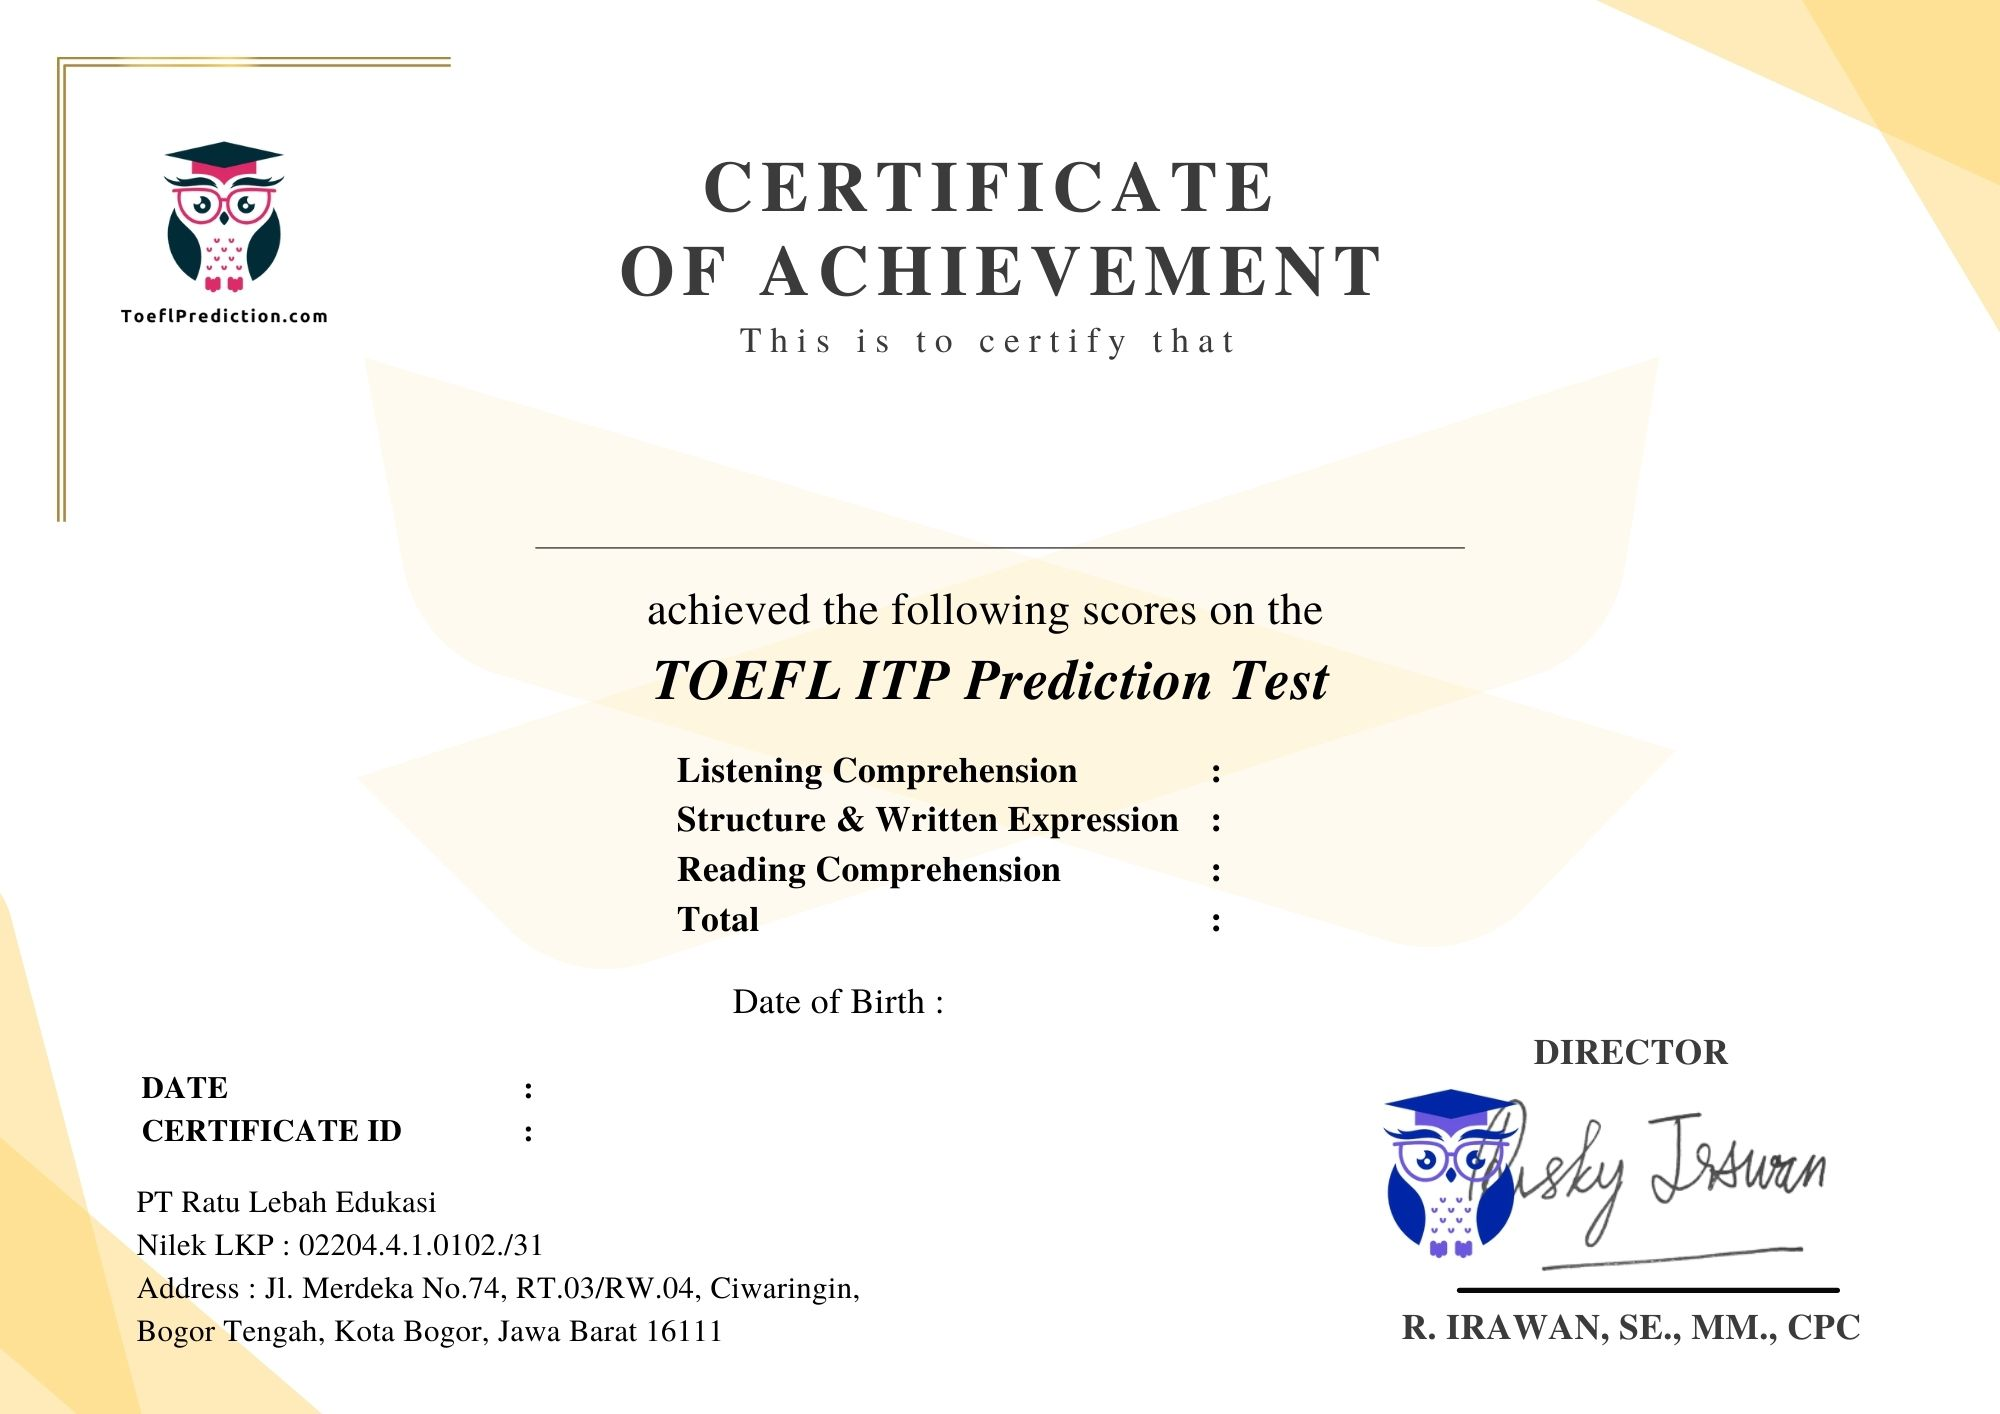
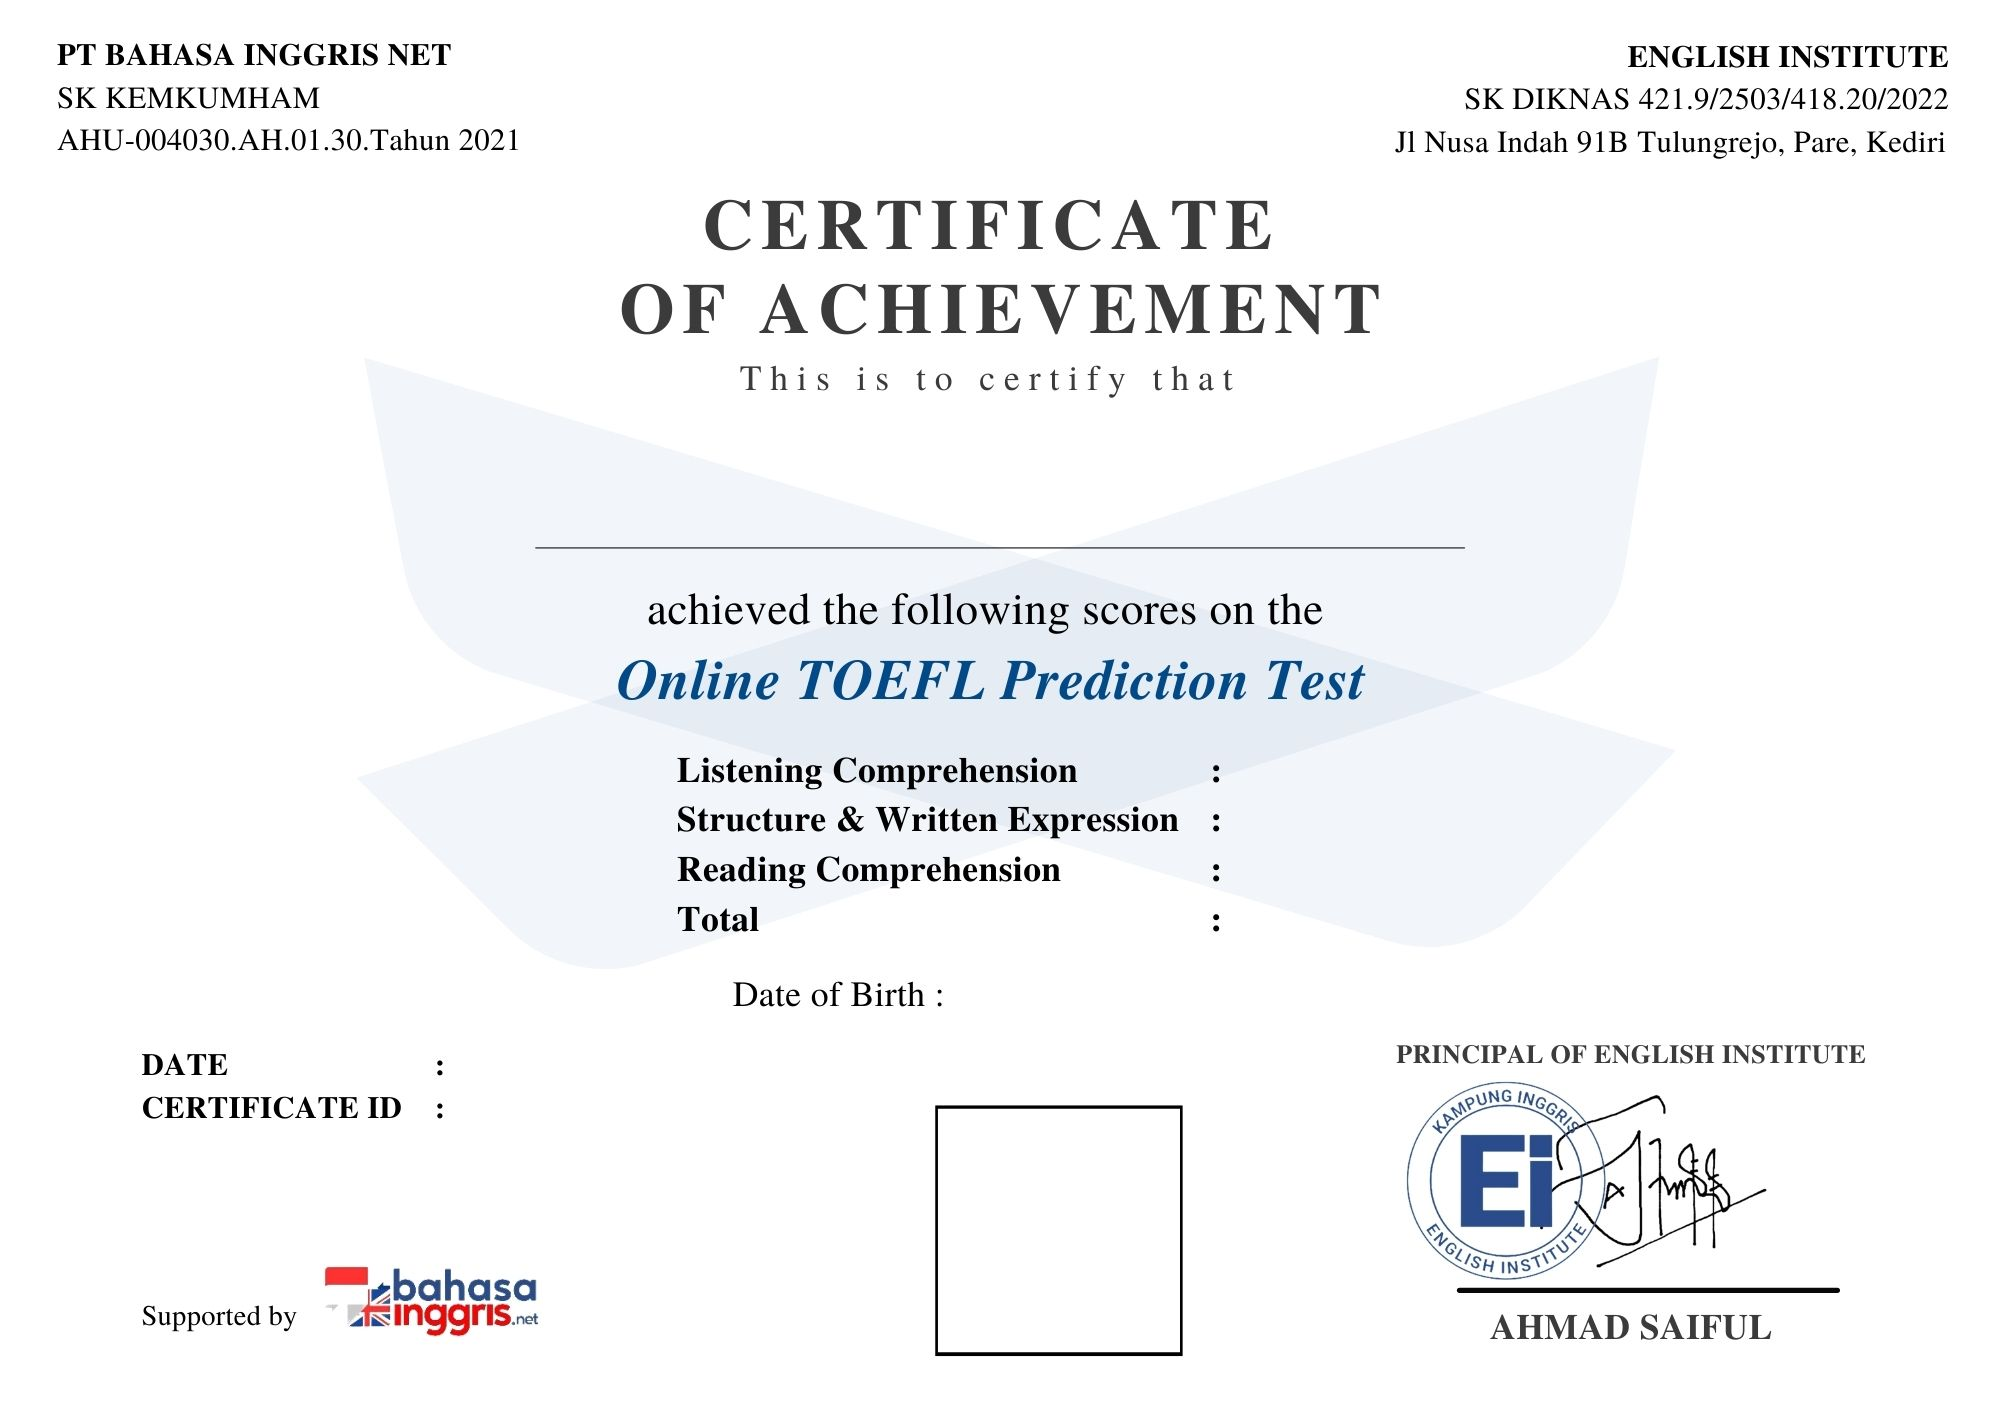
edit training v1

diff --git a/application/views/pages/soal-toefl-training-v1.php b/application/views/pages/soal-toefl-training-v1.php
@@ -213,13 +213,32 @@
                                                 $item = '<img src="'.$link['value'].'/assets/myimg/'.$data['data'].'?t='.time().'" onerror="this.onerror=null; this.src='.$link['value'].'/assets/tabler-icons-1.39.1/icons/x.svg" class="card-img-top" width=100%>';
                                             ?>
                                             <?php endif;?>
-                                            <div class="shadow card mb-3 soal">
+                                            <!-- <div class="shadow card mb-3 soal">
                                                 <div class="card-body" id="soal-<?= $i?>">
                                                     
                                                     <?= $item?>
                                 
                                                 </div>
-                                            </div>
+                                            </div> -->
+                                            <?php if($data['tampil'] == "Ya") :?>
+                                                <div class="shadow card mb-3 soal">
+                                                    <div class="card-body" id="soal-<?= $i?>">
+                                                        <?php if($data['id_text'] != 0) :?>
+                                                            <?php $text = textReading($data['id_text']) ;?>
+                                                            <div class="row">
+                                                                <div class="col-sm-12 col-lg-8">
+                                                                    <?= $text['data'];?>
+                                                                </div>
+                                                                <div class="col-sm-12 col-lg-4">
+                                                                    <?= $item?>
+                                                                </div>
+                                                            </div>
+                                                        <?php else :?>
+                                                            <?= $item;?>
+                                                        <?php endif;?>
+                                                    </div>
+                                                </div>
+                                            <?php endif;?>
                                         <?php endforeach;?>
 
                                         <div class="mb-3">

diff --git a/application/views/pages/sertifikat-file.php b/application/views/pages/sertifikat-file.php
@@ -46,8 +46,8 @@
         .qrcode{
             /* width: 210px; */
 			position: absolute;
-            right: 77px;
-			top: 69px;
+            right: 455px;
+			bottom: 30px;
             font-size: 35px;
             word-spacing: 3px;
         }
@@ -56,8 +56,8 @@
             /* background-color: red; */
             /* width: 210px; */
 			position: absolute;
-            right: 93px;
-			top: 187px;
+            right: 484px;
+			bottom: 20px;
             font-size: 10px;
             word-spacing: 3px;
         }
@@ -106,7 +106,7 @@
 			position: absolute;
             left: 539px;
 			/* bottom: 242px; */
-			bottom: 219px;
+			bottom: 222px;
             font-size: 18px;
             font-family: 'times';
             word-spacing: 3px;
@@ -169,8 +169,8 @@
             /* background-color: red; */
             width: 250px;
 			position: absolute;
-            left: 310px;
-			bottom: 171px;
+            left: 260px;
+			bottom: 184px;
             font-size: 16px;
             font-family: 'times';
             word-spacing: 3px;
@@ -181,8 +181,8 @@
             /* background-color: red; */
             width: 250px;
 			position: absolute;
-            left: 310px;
-			bottom: 147px;
+            left: 260px;
+			bottom: 160px;
             font-size: 16px;
             font-family: 'times';
             word-spacing: 3px;
@@ -237,7 +237,7 @@
 </head>
     <body style="text-align: center">
         <div class="qrcode">
-            <img src="<?= base_url()?>assets/qrcode/<?= $id?>.png" width=120 alt="">
+            <img src="<?= base_url()?>assets/qrcode/<?= $id?>.png" width=145 alt="">
         </div>
         <div class="scan"><center>scan for validation</center></div>
         <div class="nilai"><p style="text-align: right; margin: 0px"><?= round($skor)?></p></div>

diff --git a/application/controllers/Sertifikat.php b/application/controllers/Sertifikat.php
@@ -30,9 +30,9 @@ class Sertifikat extends CI_Controller {
             $peserta['link_foto'] = config();
 
             $skor = ((poin("Listening", $peserta['nilai_listening']) + poin("Structure", $peserta['nilai_structure']) + poin("Reading", $peserta['nilai_reading'])) * 10) / 3;
-            $peserta['skor'] = $skor;
+            $peserta['skor_toefl'] = round($skor);
 
-            $peserta['no_doc'] = "{$peserta['no_doc']}/TOEFL/Digital/{$peserta['tahun']}";
+            $peserta['no_doc'] = "EI/TP-P/{$peserta['tahun']}/{$peserta['bulan']}/{$peserta['no_doc']}";
         }
 
         // $this->load->view("pages/layout/header-sertifikat", $peserta);
@@ -56,13 +56,13 @@ class Sertifikat extends CI_Controller {
             $peserta['tarakib'] = poin("Structure", $tes['nilai_structure']);
             $peserta['qiroah'] = poin("Reading", $tes['nilai_reading']);
             $peserta['tgl_tes'] = $tes['tgl_tes'];
-            $peserta['skor_toefl'] = $tes['skor_toefl'];
+            $peserta['skor_toefl'] = round($tes['skor_toefl']);
             // $peserta['tgl_berakhir'] = date('Y-m-d', strtotime('+6 months', strtotime($tes['tgl_tes'])));
 
             // $skor = ((poin("Listening", $tes['nilai_listening']) + poin("Structure", $tes['nilai_structure']) + poin("Reading", $tes['nilai_reading'])) * 10) / 3;
             // $peserta['skor_toefl'] = $peserta['skor_toefl'];
 
-            $peserta['no_doc'] = "RLE/TP-PB/{$peserta['tahun']}/{$peserta['bulan']}/{$peserta['no_doc']}";
+            $peserta['no_doc'] = "EI/TP-PB/{$peserta['tahun']}/{$peserta['bulan']}/{$peserta['no_doc']}";
         }
 
         // $this->load->view("pages/layout/header-sertifikat", $peserta);

diff --git a/application/controllers/Peserta.php b/application/controllers/Peserta.php
@@ -325,7 +325,7 @@ class Peserta extends CI_Controller {
         // $skor = ((poin("Listening", $peserta['nilai_listening']) + poin("Structure", $peserta['nilai_structure']) + poin("Reading", $peserta['nilai_reading'])) * 10) / 3;
         $peserta['skor'] = $tes['skor_toefl'];
         
-        $peserta['no_doc'] = "RLE/TP-PB/{$peserta['tahun']}/{$peserta['bulan']}/{$peserta['no_doc']}";
+        $peserta['no_doc'] = "EI/TP-PB/{$peserta['tahun']}/{$peserta['bulan']}/{$peserta['no_doc']}";
 
         $peserta['config'] = $this->Main_model->config();
         $peserta['id_tes'] = $peserta['id_tes'];
